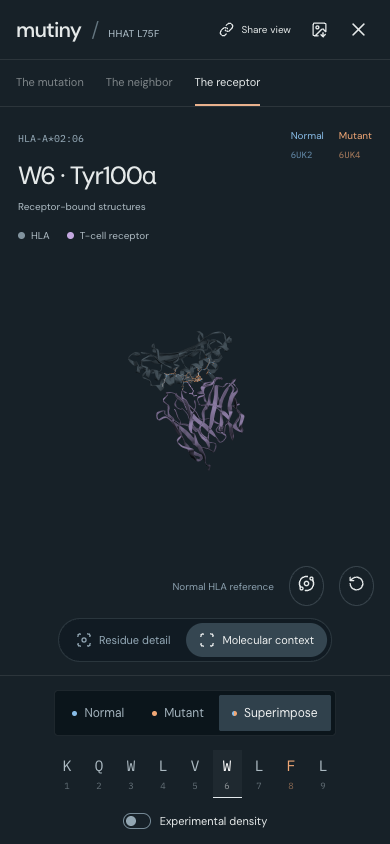
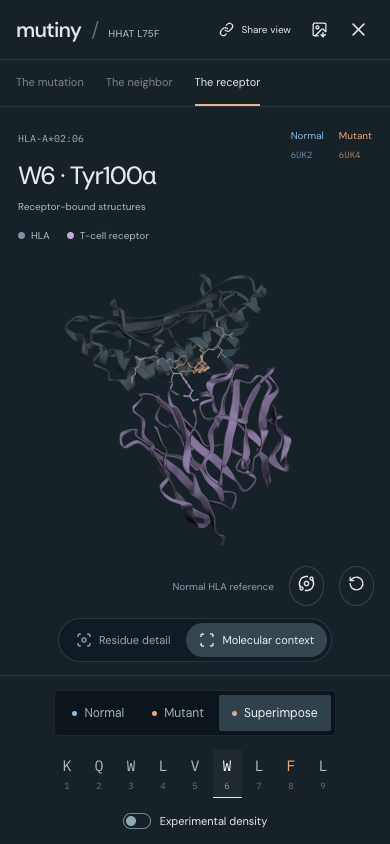
Frame molecular context clearly on phones

Changed region(s): [[0.1538, 0.3081, 0.7385, 0.6469]]

diff --git a/src/components/FocusComparison.tsx b/src/components/FocusComparison.tsx
@@ -421,7 +421,9 @@ function FocusDialog({
           v.rotate(18, "y");
           v.zoom(
             context
-              ? 0.95
+              ? el && el.clientWidth < 600
+                ? 1.85
+                : 0.95
               : step === 0
                 ? 1.05
                 : el && el.clientWidth < 600
